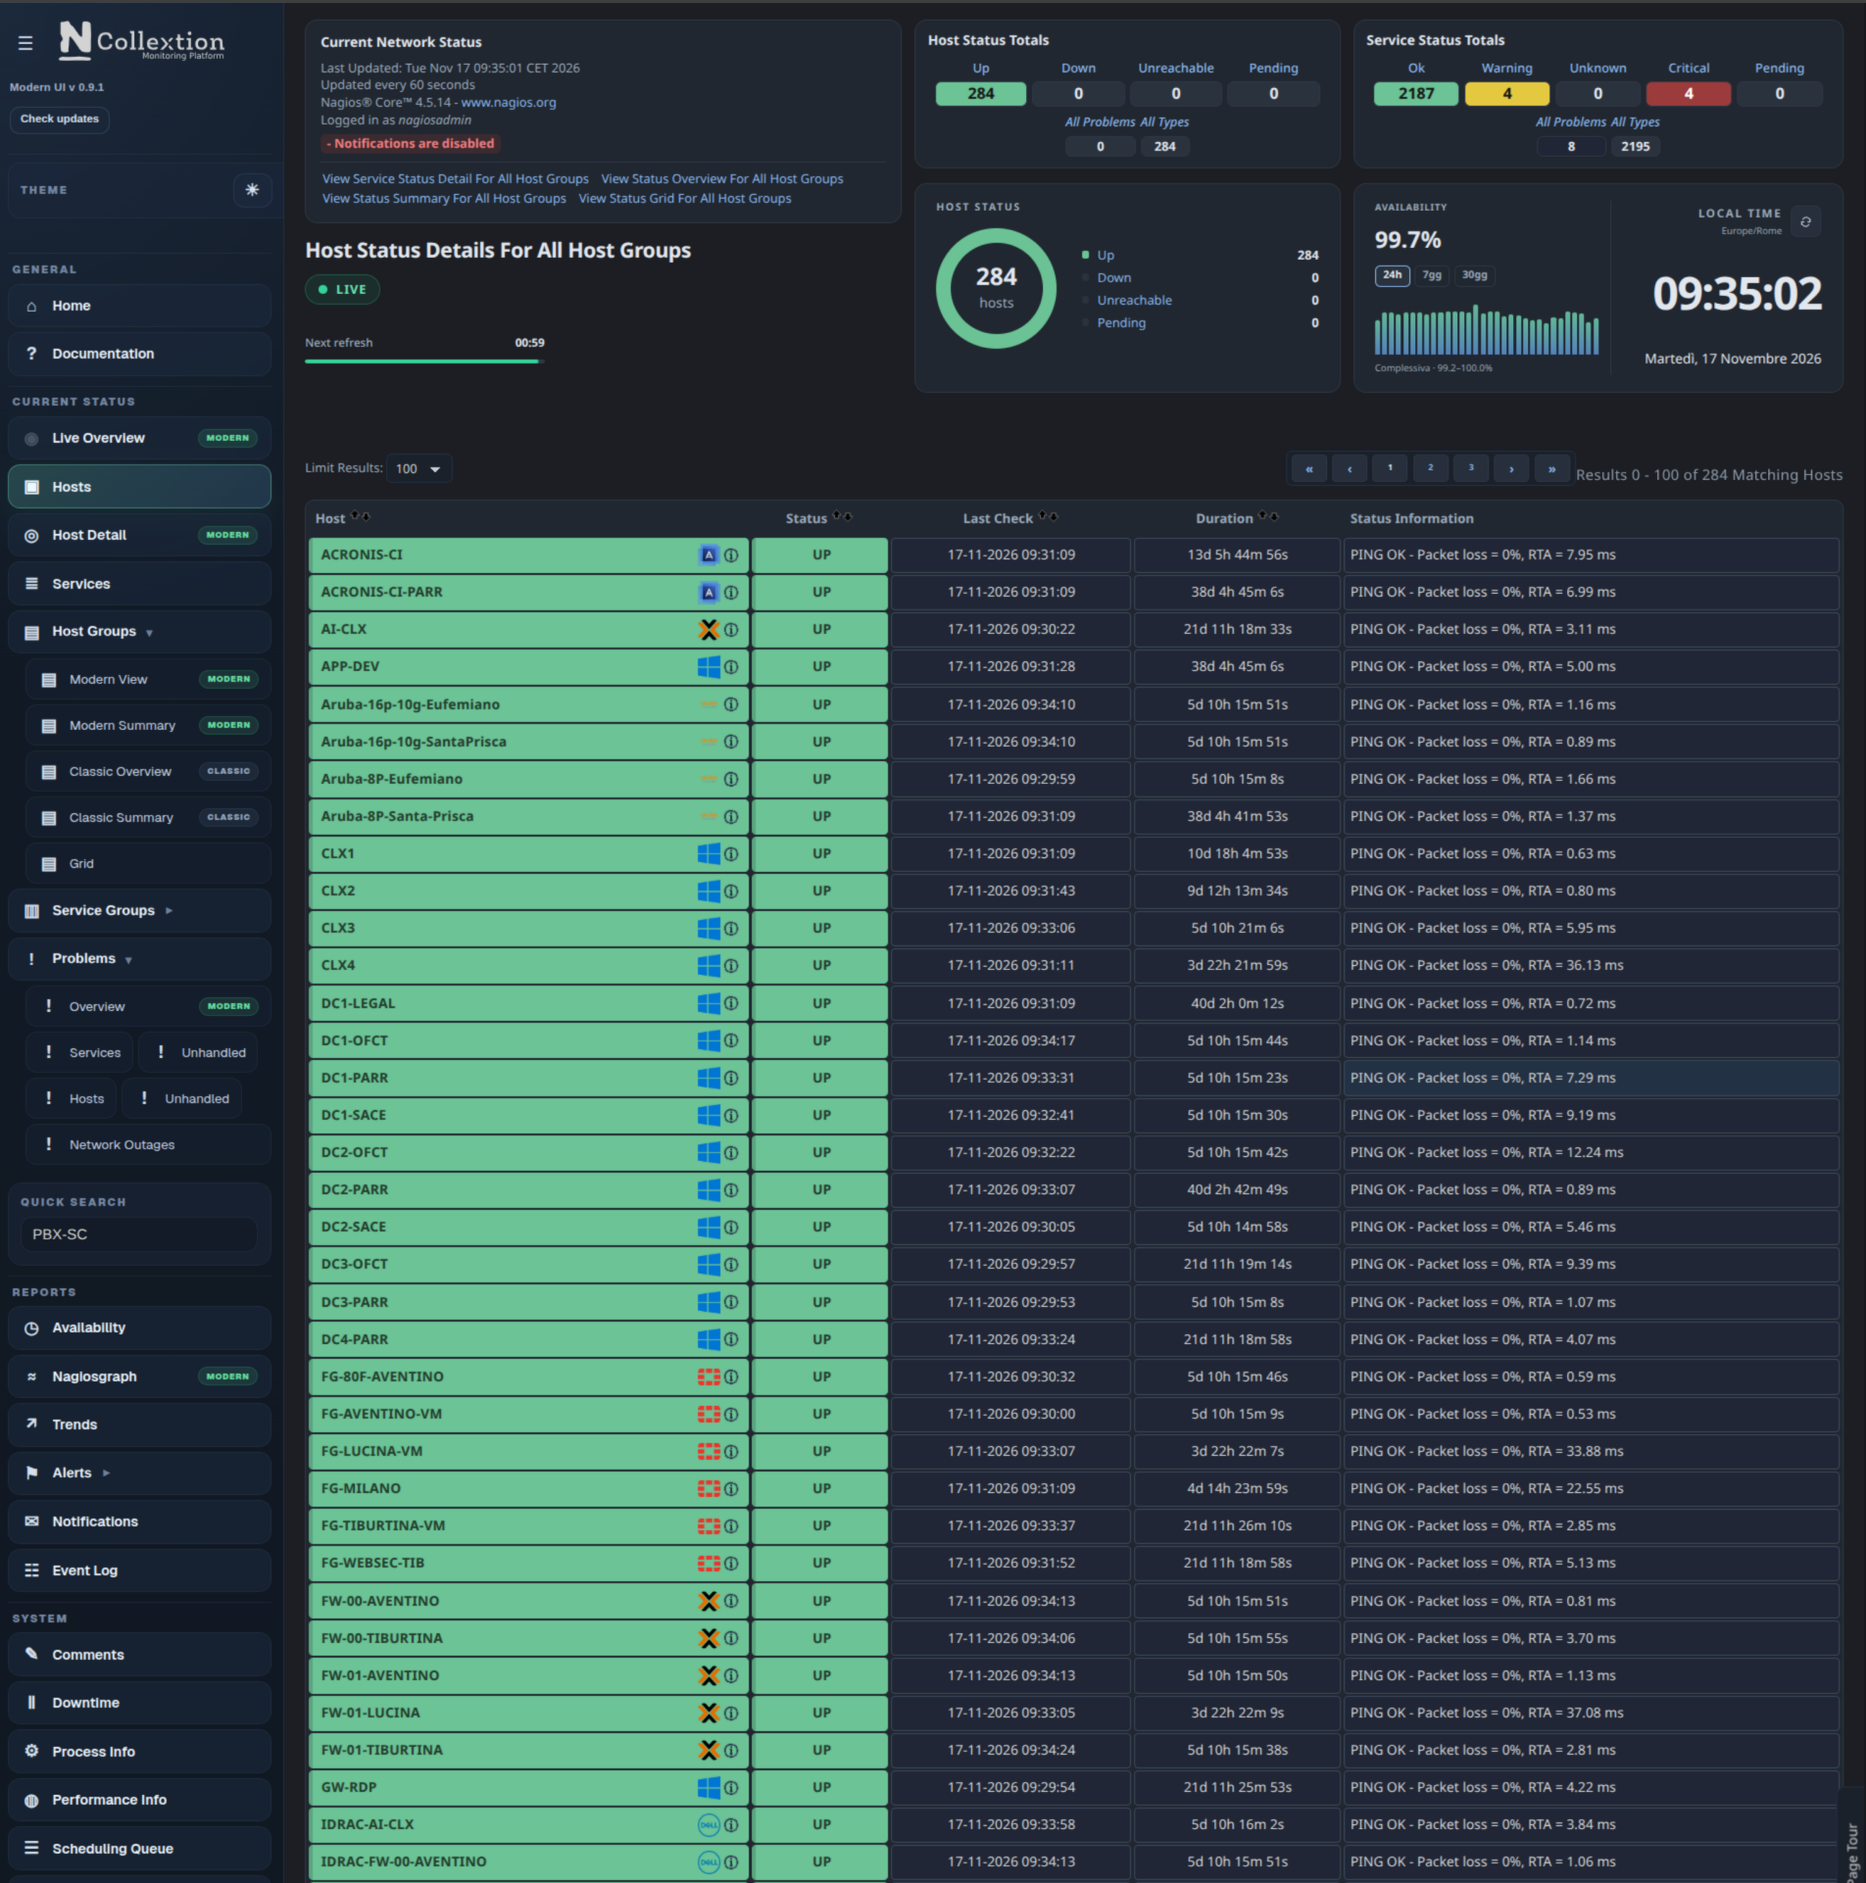
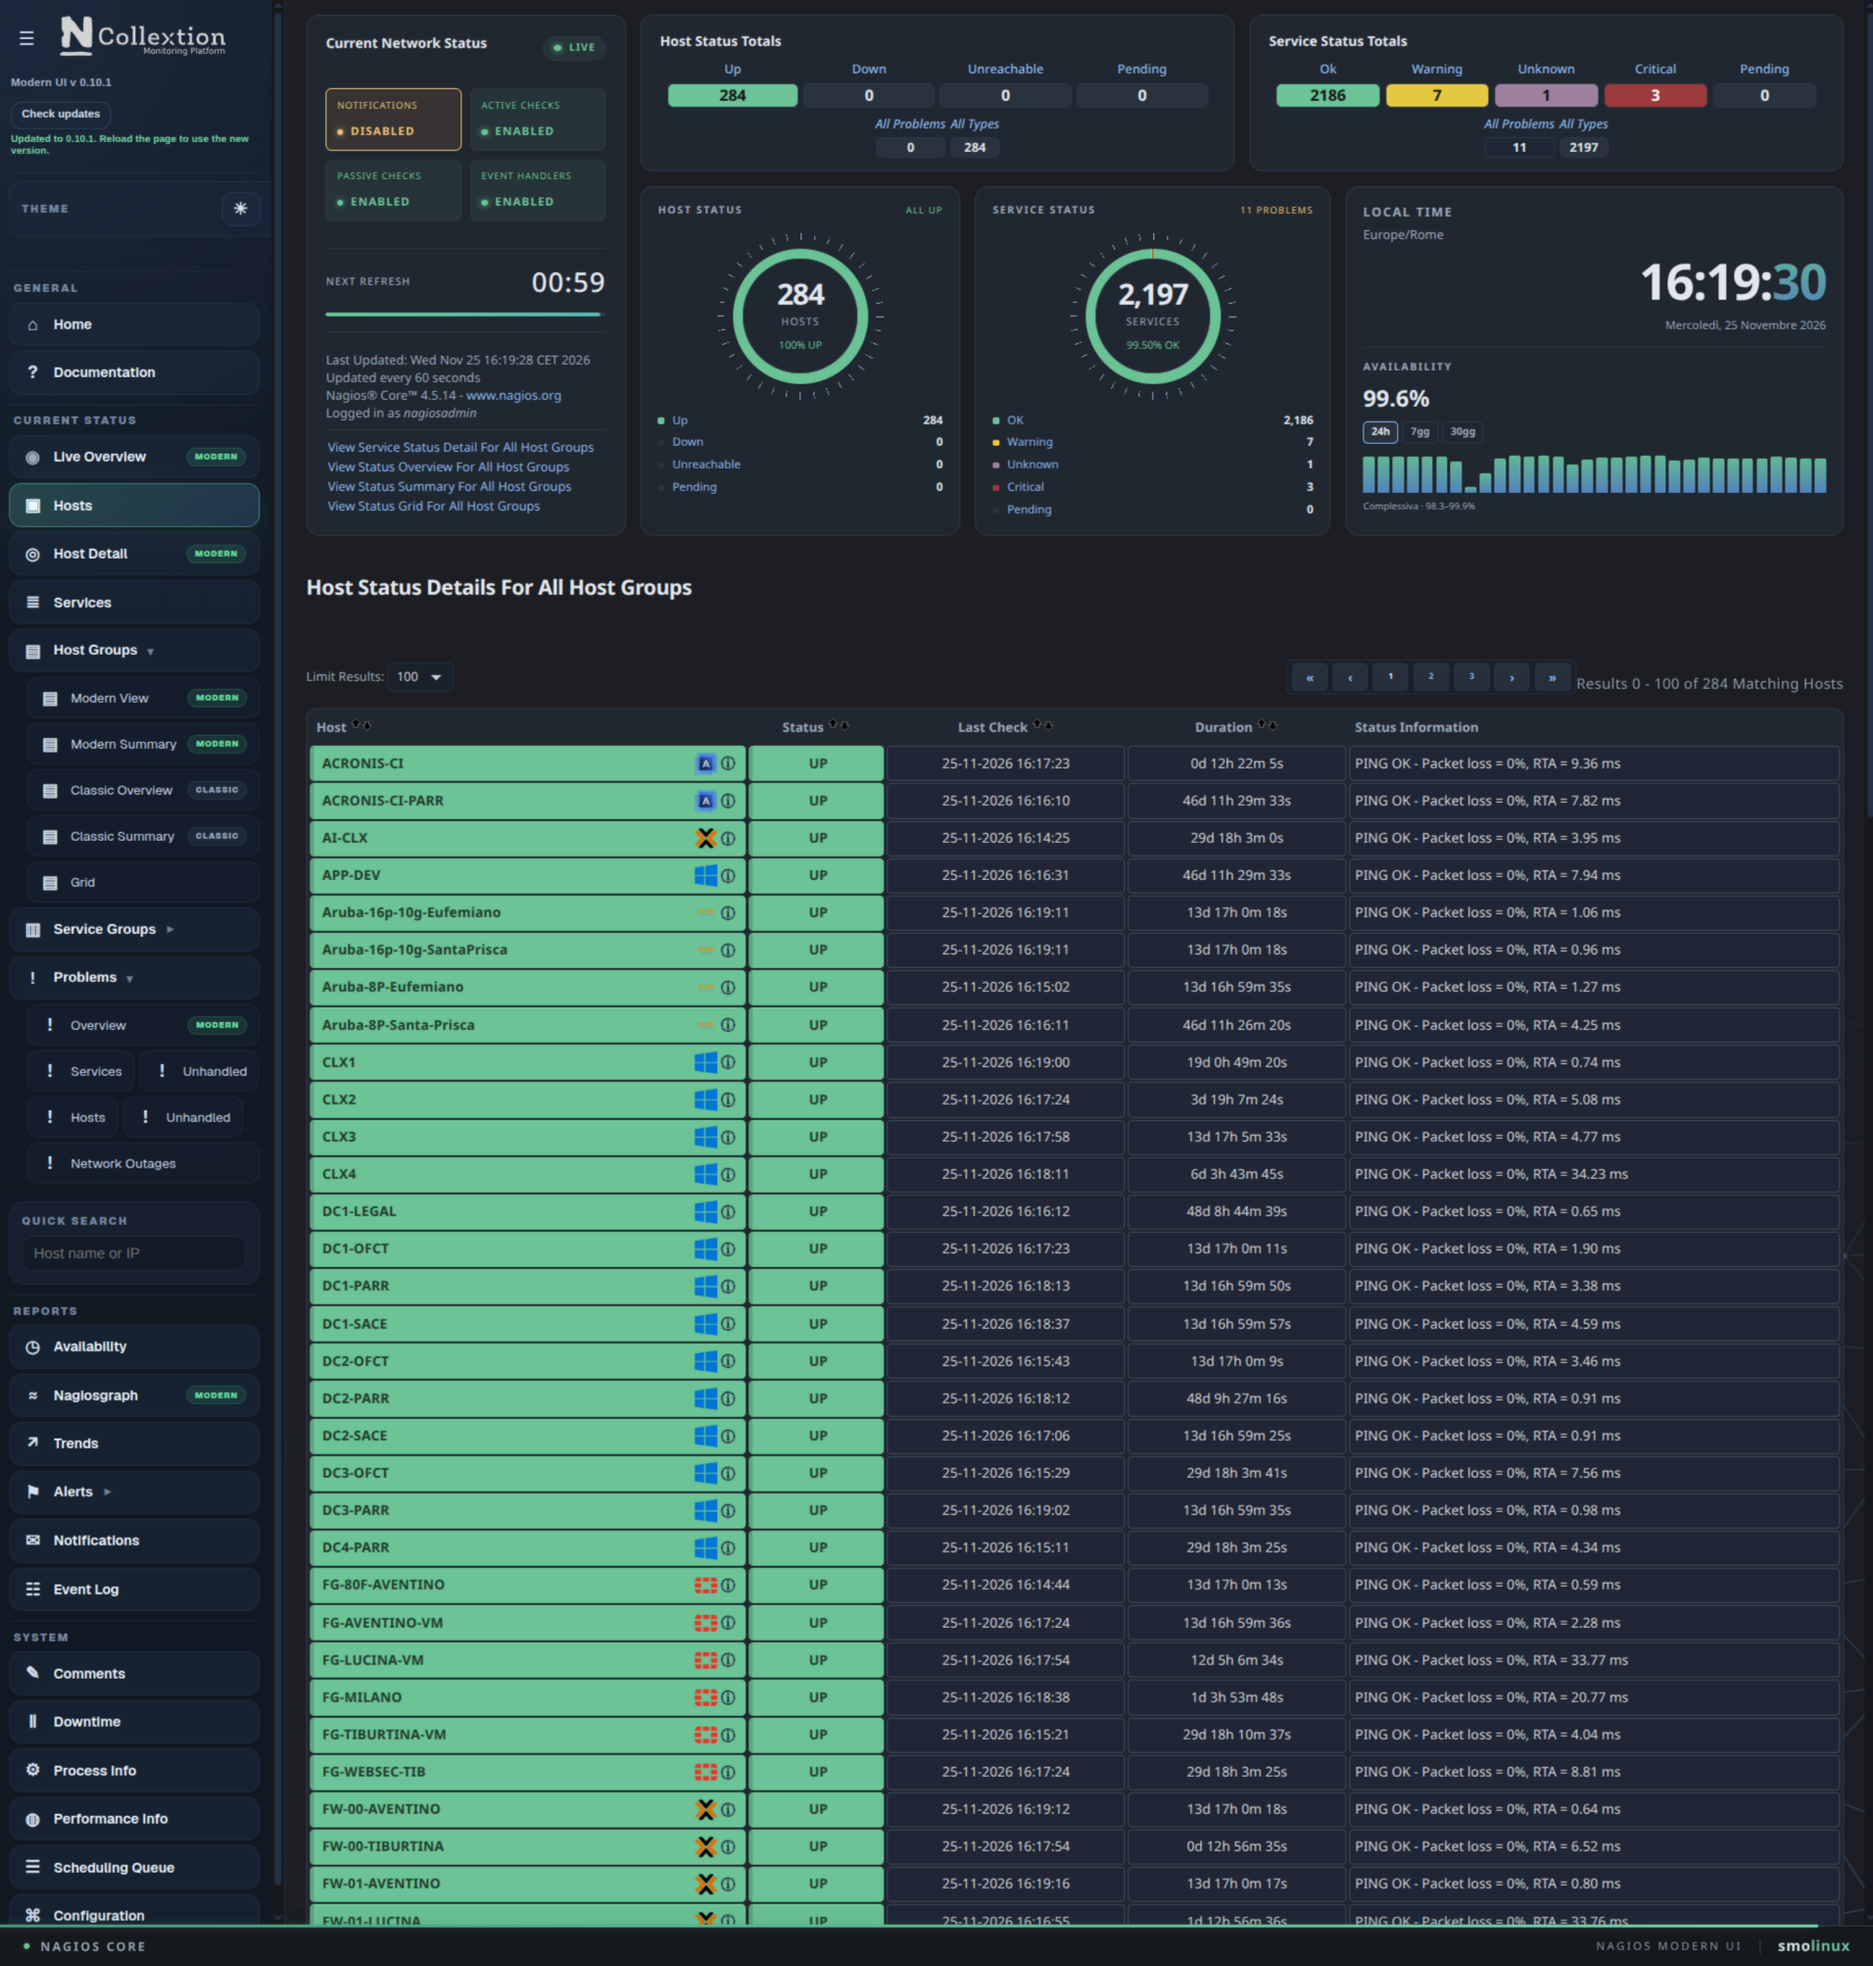
docs: highlight classic pages and refresh screenshots

diff --git a/README.md b/README.md
@@ -58,25 +58,21 @@ Desktop and mobile are both supported:
 
 ## Screenshots
 
-| Live Overview | Problems Overview |
+| Live Overview | Classic Service Problems |
 |---|---|
-| ![](screenshots/live.png) | ![](screenshots/problems_modern.png) |
+| ![Live Overview](screenshots/live.png) | ![Classic Service Problems](screenshots/service-problems.png) |
 
-| Host Detail | Nagiosgraph |
+| Classic Host Detail | Nagiosgraph |
 |---|---|
-| ![](screenshots/hostdetail_modern.png) | ![](screenshots/graph.png) |
+| ![Classic Host Detail](screenshots/hostdetail.png) | ![Nagiosgraph](screenshots/graph.png) |
 
-| Light Live Overview | Light Host Detail |
+| Light Live Overview | Light Classic Host Detail |
 |---|---|
-| ![](screenshots/live_light.png) | ![](screenshots/hostdetail_light.png) |
-
-| Light Problems Overview |  |
-|---|---|
-| ![](screenshots/problems_modern_light.png) |  |
+| ![Light Live Overview](screenshots/live_light.png) | ![Light Classic Host Detail](screenshots/hostdetail_light.png) |
 
 | Classic Status Restyle | Classic Service Status Restyle |
 |---|---|
-| ![](screenshots/status-all.png) | ![](screenshots/status-service-all.png) |
+| ![Classic Status Restyle](screenshots/status-all.png) | ![Classic Service Status Restyle](screenshots/status-service-all.png) |
 
 ## Installation
 
